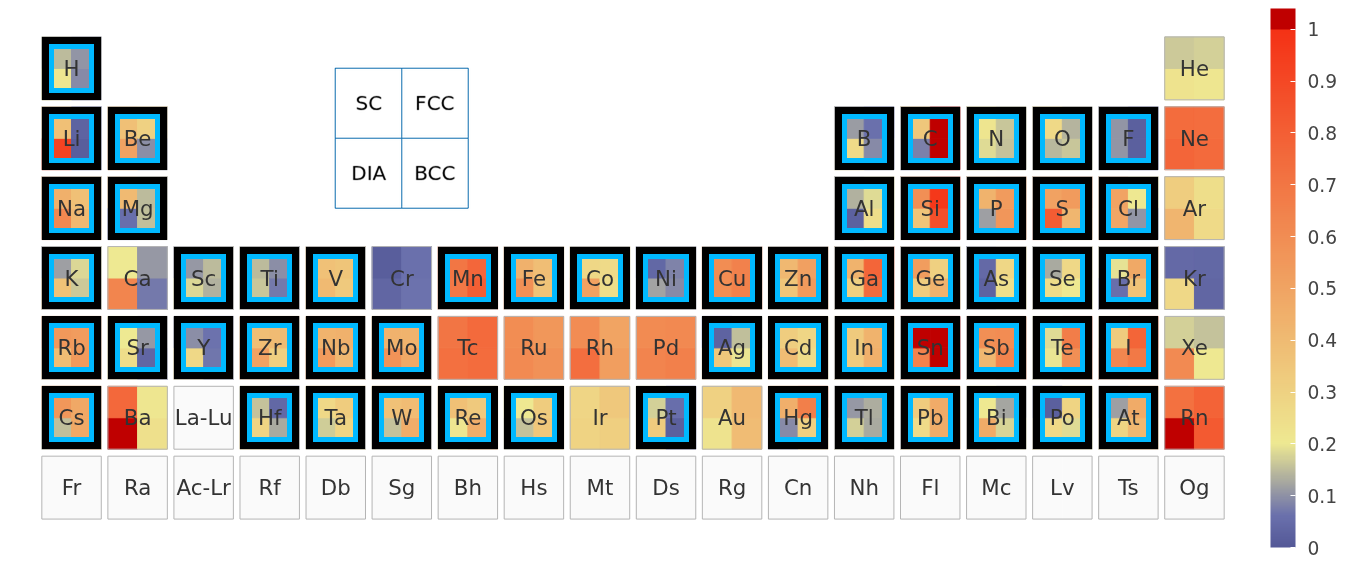
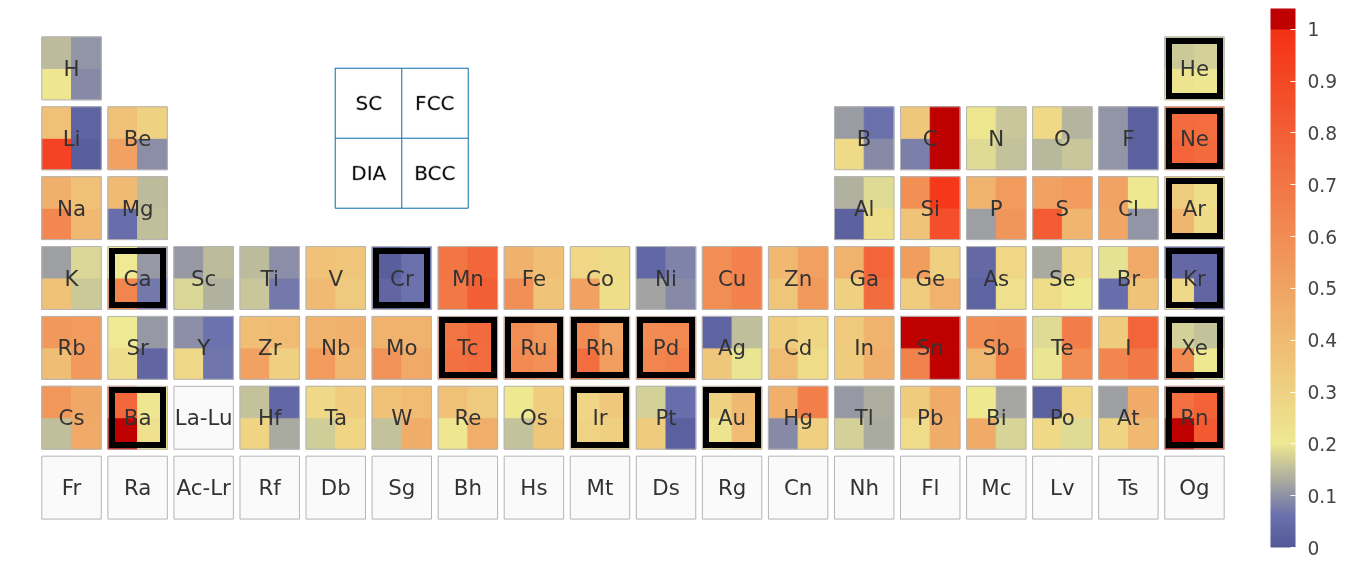
Highlight improved entries in completed total-error panel

Changed region(s): [[0.0311, 0.0605, 0.9333, 0.8167], [0.9022, 0.0907, 0.9333, 0.1512]]

diff --git a/manuscript/main_prb_tdk.tex b/manuscript/main_prb_tdk.tex
@@ -214,7 +214,7 @@ Together, the bond-length and polarizability benchmarks, complemented by the ang
 
 \subsection{Total error before and after improvement}
 
-Figure~\ref{fig:total_before_after} compares the total practical error of the original and improved CP2K-GTH-UZH settings relative to the SIRIUS-FP-LAPW reference. In the original settings, several elements exhibit $\varepsilon>1$ for at least two unary structures, including noble gases, selected transition metals, and heavier main-group elements. After applying the UZH protocol, the corresponding CP2K-GTH-UZH-new map is substantially cleaner, with the largest residual deviations confined to a smaller set of chemically interpretable cases. The completed map in the lower panel fills entries not recomputed with the improved settings by retaining the corresponding original values, providing a full-period overview on the same scale; these retained entries are highlighted by black--cyan frames. This before--after comparison is the error a user would observe if CP2K were treated as a black box. It is therefore the most direct measure of the protocol's practical accuracy, but by itself it does not reveal the origin of the discrepancy.
+Figure~\ref{fig:total_before_after} compares the total practical error of the original and improved CP2K-GTH-UZH settings relative to the SIRIUS-FP-LAPW reference. In the original settings, several elements exhibit $\varepsilon>1$ for at least two unary structures, including noble gases, selected transition metals, and heavier main-group elements. After applying the UZH protocol, the corresponding CP2K-GTH-UZH-new map is substantially cleaner, with the largest residual deviations confined to a smaller set of chemically interpretable cases. The completed map in the lower panel fills entries not recomputed with the improved settings by retaining the corresponding original values, providing a full-period overview on the same scale; the recomputed improved entries are highlighted by black frames. This before--after comparison is the error a user would observe if CP2K were treated as a black box. It is therefore the most direct measure of the protocol's practical accuracy, but by itself it does not reveal the origin of the discrepancy.
 
 The important point is that the outliers do not have a single chemical or numerical origin. Noble-gas solids are especially sensitive to the radial flexibility and diffuseness of the valence basis because their equation-of-state curves are shallow and dominated by weak interactions. Several transition-metal cases, in contrast, point to the quality of the frozen-core representation, semicore treatment, and the scalar-relativistic transferability encoded in the DKH3-fitted pseudopotential. Heavy main-group elements can combine both effects. The total-error map is therefore deliberately used as a starting point rather than as a final ranking of elements: it identifies where the original settings are insufficient, but the remedial action requires the decomposition in the next subsection.
 
@@ -223,7 +223,7 @@ This distinction is central for interpreting $\varepsilon$. A large total error 
 \begin{figure*}
 \includegraphics[width=\textwidth,height=0.88\textheight,keepaspectratio]{periodic-table-unaries-total-error-before-after-filled.png}
 \caption{\label{fig:total_before_after}
-Total equation-of-state error relative to SIRIUS-FP-LAPW, expressed with the $\varepsilon$ metric of Eq.~(\ref{eq:epsilon}). Top: original CP2K-GTH-UZH settings. Middle: improved CP2K-GTH-UZH-new settings. Bottom: completed view in which entries absent from the improved data set are filled with the corresponding original CP2K-GTH-UZH values; black--cyan frames mark the retained original entries. Each map contains both Gaussian-basis and pseudopotential errors and therefore represents the practical production-level CP2K error before and after applying the UZH protocol.}
+Total equation-of-state error relative to SIRIUS-FP-LAPW, expressed with the $\varepsilon$ metric of Eq.~(\ref{eq:epsilon}). Top: original CP2K-GTH-UZH settings. Middle: improved CP2K-GTH-UZH-new settings. Bottom: completed view in which entries absent from the improved data set are filled with the corresponding original CP2K-GTH-UZH values; black frames mark the recomputed improved entries. Each map contains both Gaussian-basis and pseudopotential errors and therefore represents the practical production-level CP2K error before and after applying the UZH protocol.}
 \end{figure*}
 
 \begin{table*}